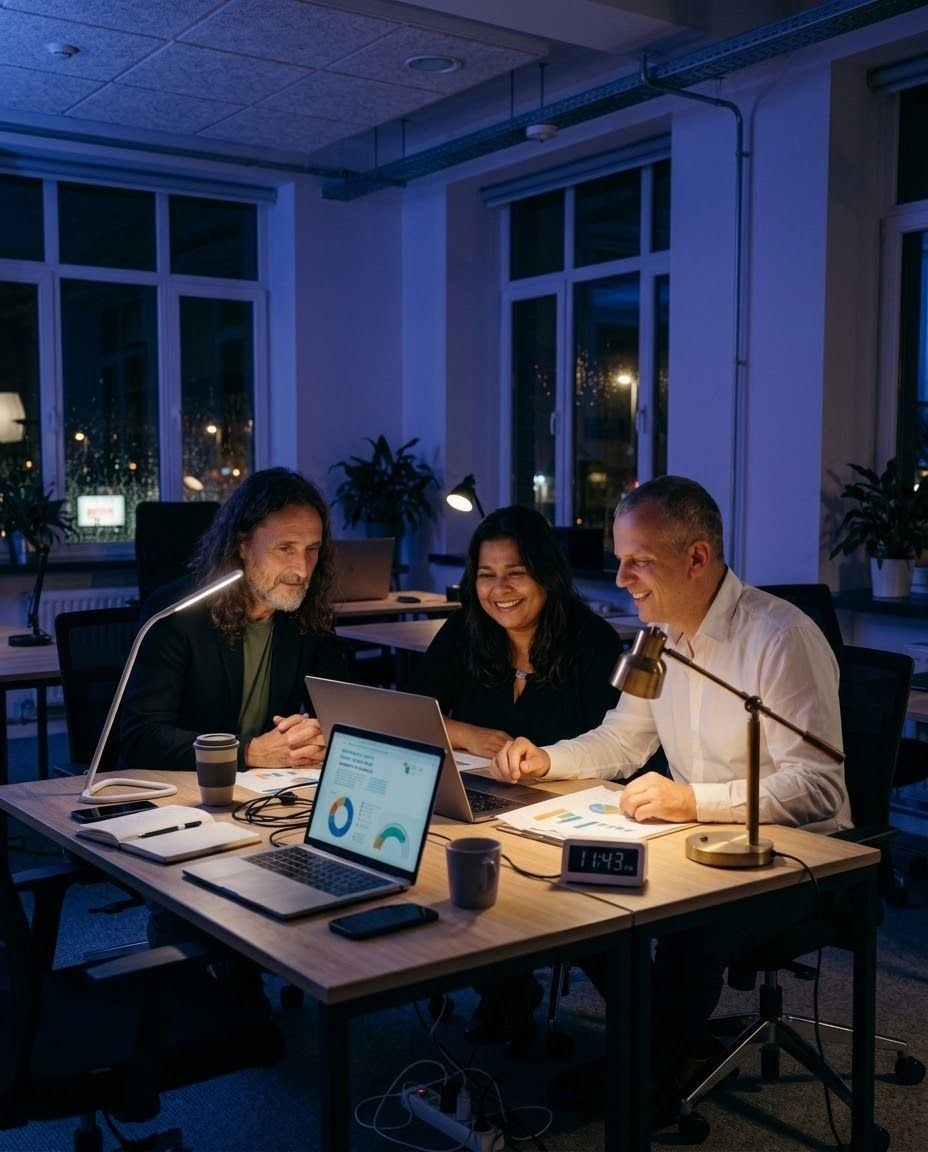
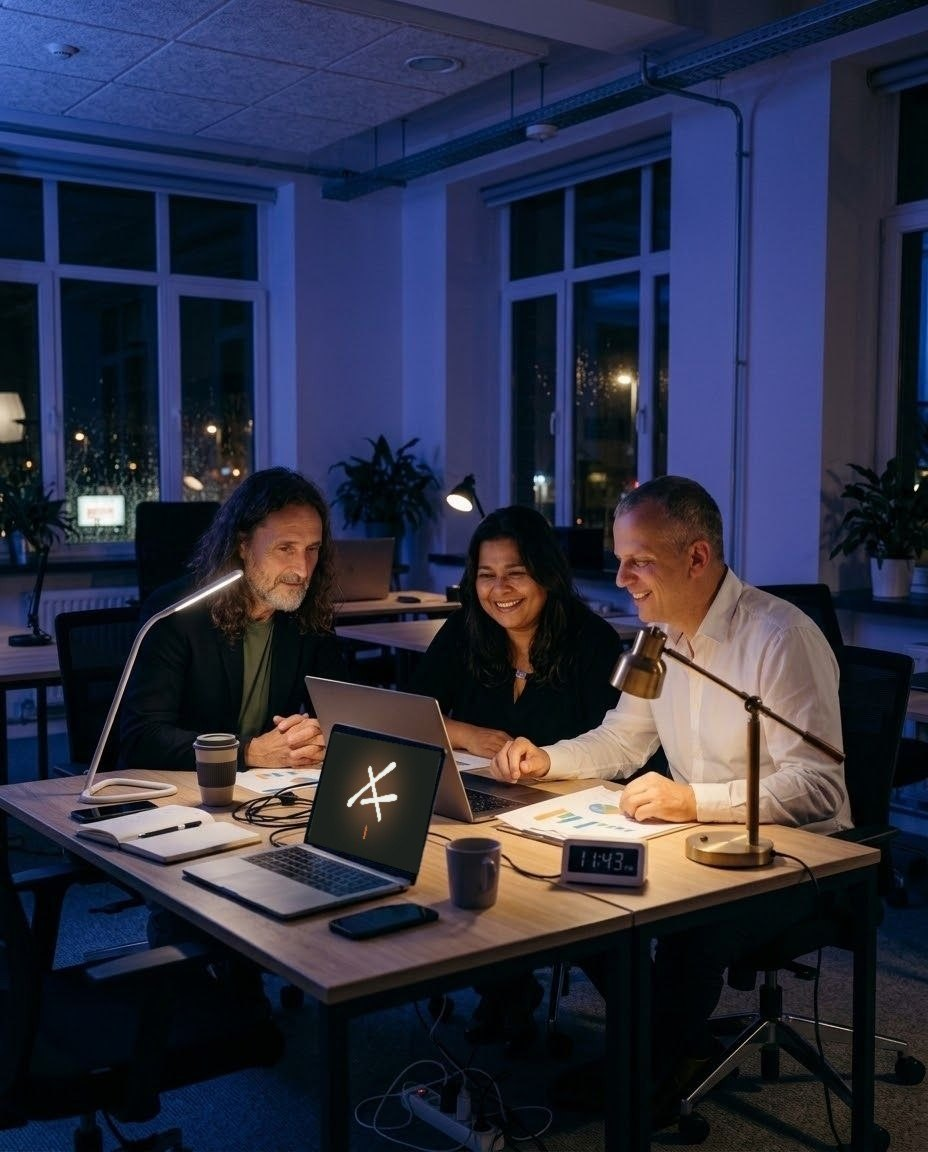
Home: team photo with EMET's aleph on the laptop screen
Requested-by: Dora Bender (Telegram group)
Request: Home page photo: put EMET in the picture, the logo aleph on the laptop screen

Changed region(s): [[0.3125, 0.625, 0.4688, 0.75]]

diff --git a/docs/index.html b/docs/index.html
@@ -133,7 +133,7 @@
 <section class="mv" aria-label="Vision and mission">
   <div class="mv-inner">
     <figure class="mv-photo">
-      <img src="photo-team.jpg?v=team4" alt="Victor, Dora and Guy working late together around a laptop" loading="lazy" width="928" height="1152">
+      <img src="photo-team.jpg?v=team5" alt="Victor, Dora and Guy working late together, with EMET on the laptop screen" loading="lazy" width="928" height="1152">
     </figure>
     <div class="mv-text">
     <article class="mv-item">
